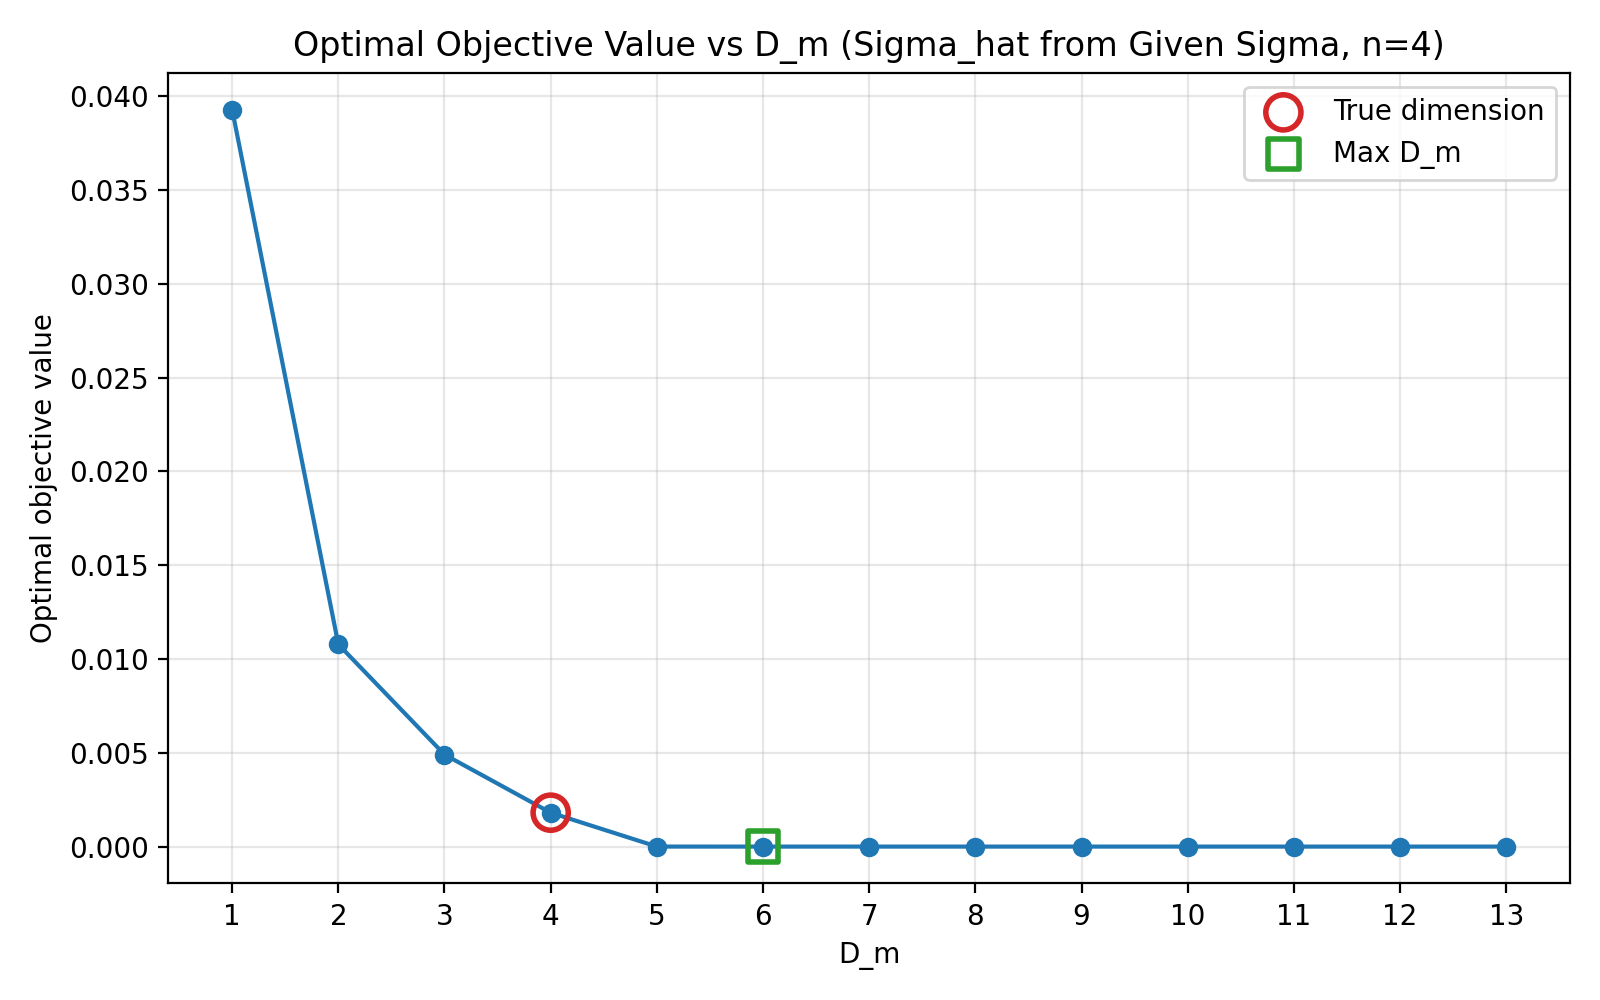
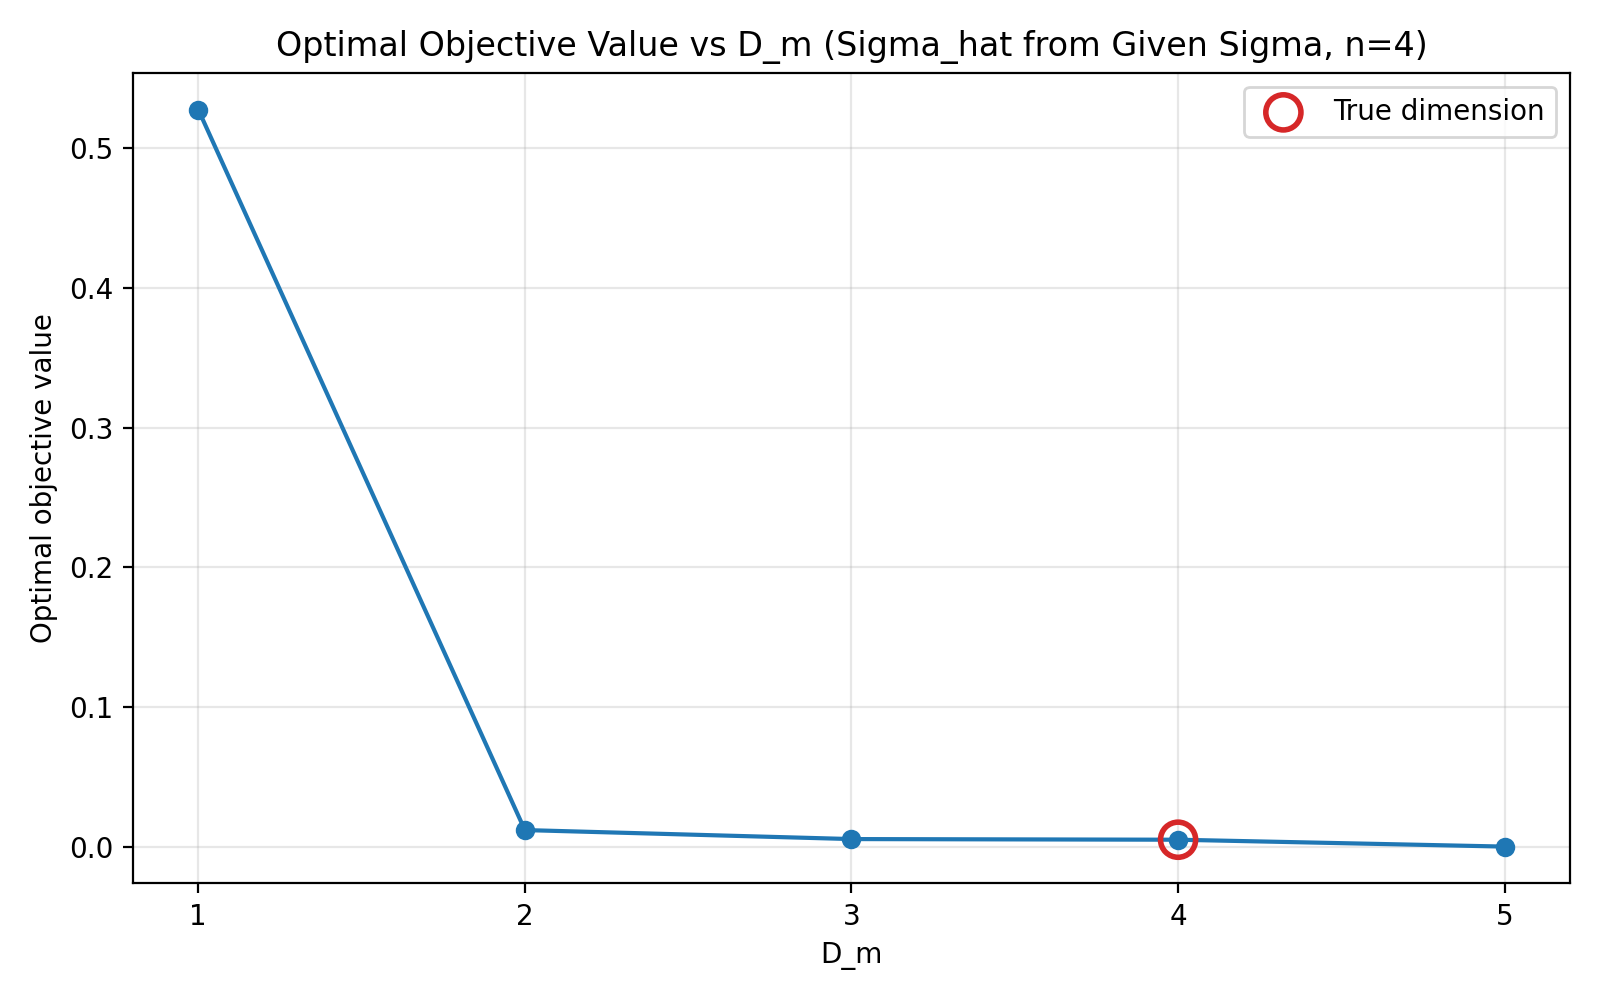
Checkpoint added

diff --git a/experiments/compute_objective_curve.py b/experiments/compute_objective_curve.py
@@ -1,6 +1,7 @@
 """Compute and save objective curves showing how the optimum changes with D_m."""
 
 import argparse
+import tempfile
 from pathlib import Path
 import sys
 
@@ -88,16 +89,36 @@ def compute_objective_curve(
     n_jobs=1,
     init_strategy="halton",
     refine_after_fixed_omega=False,
+    initial_curve_result=None,
+    save_callback=None,
 ):
     n = Sigma.shape[0]
     max_dm = n * (n - 1) + 1
 
-    exact_d_m_values = []
-    exact_objective_values = []
-    fallback_d_m_values = []
-    fallback_objective_values = []
+    if initial_curve_result is None:
+        exact_d_m_values = []
+        exact_objective_values = []
+        fallback_d_m_values = []
+        fallback_objective_values = []
+    else:
+        (
+            initial_d_m_values,
+            initial_objective_values,
+            initial_fallback_d_m_values,
+            initial_fallback_objective_values,
+        ) = initial_curve_result
+        exact_d_m_values = list(initial_d_m_values)
+        exact_objective_values = list(initial_objective_values)
+        fallback_d_m_values = list(initial_fallback_d_m_values)
+        fallback_objective_values = list(initial_fallback_objective_values)
+
+    completed_d_m_values = set(int(d_m) for d_m in exact_d_m_values)
 
     for d_m in range(1, max_dm + 1):
+        if d_m in completed_d_m_values:
+            print(f"Skipping D_m = {d_m}; already present in output file.")
+            continue
+
         print(f"Solving for D_m = {d_m}...")
         np.random.seed(random_seed)
         Lambda, omega, obj = optimize_lambda(
@@ -130,11 +151,31 @@ def compute_objective_curve(
             )
             exact_d_m_values.append(d_m)
             exact_objective_values.append(np.inf)
+            completed_d_m_values.add(d_m)
+            if save_callback is not None:
+                save_callback(
+                    (
+                        np.array(exact_d_m_values),
+                        np.array(exact_objective_values),
+                        np.array(fallback_d_m_values),
+                        np.array(fallback_objective_values),
+                    )
+                )
             continue
 
         print(f"  Objective = {obj:.6f}")
         exact_d_m_values.append(d_m)
         exact_objective_values.append(obj)
+        completed_d_m_values.add(d_m)
+        if save_callback is not None:
+            save_callback(
+                (
+                    np.array(exact_d_m_values),
+                    np.array(exact_objective_values),
+                    np.array(fallback_d_m_values),
+                    np.array(fallback_objective_values),
+                )
+            )
 
     d_m_values = np.array(exact_d_m_values)
     objective_values = np.array(exact_objective_values)
@@ -170,6 +211,26 @@ def output_path_for_dimension(output_path, n, add_suffix):
     return f"{stem}_n{n}.{extension}"
 
 
+def atomic_savez_compressed(output_path, **arrays):
+    output_path = Path(output_path)
+    output_path.parent.mkdir(parents=True, exist_ok=True)
+
+    temp_path = None
+    try:
+        with tempfile.NamedTemporaryFile(
+            dir=output_path.parent,
+            prefix=f".{output_path.name}.",
+            suffix=".tmp",
+            delete=False,
+        ) as temp_file:
+            temp_path = Path(temp_file.name)
+            np.savez_compressed(temp_file, **arrays)
+        temp_path.replace(output_path)
+    finally:
+        if temp_path is not None and temp_path.exists():
+            temp_path.unlink()
+
+
 def save_curve_result(
     output_path,
     curve_type,
@@ -192,7 +253,7 @@ def save_curve_result(
         fallback_objective_values,
     ) = curve_result
 
-    np.savez_compressed(
+    atomic_savez_compressed(
         output_path,
         curve_type=curve_type,
         n=n,
@@ -210,6 +271,51 @@ def save_curve_result(
         fallback_d_m_values=fallback_d_m_values,
         fallback_objective_values=fallback_objective_values,
     )
+
+
+def load_existing_curve_result(
+    output_path,
+    expected_curve_type,
+    expected_n,
+    expected_metadata=None,
+):
+    output_path = Path(output_path)
+    if not output_path.exists():
+        return None
+
+    with np.load(output_path, allow_pickle=True) as data:
+        curve_type = data["curve_type"].item()
+        n = int(data["n"])
+        if curve_type != expected_curve_type or n != expected_n:
+            raise ValueError(
+                f"Refusing to resume from {output_path}: expected "
+                f"curve_type={expected_curve_type!r}, n={expected_n}, but found "
+                f"curve_type={curve_type!r}, n={n}."
+            )
+
+        if expected_metadata is not None:
+            for key, expected_value in expected_metadata.items():
+                actual_value = data[key].item()
+                if actual_value != expected_value:
+                    raise ValueError(
+                        f"Refusing to resume from {output_path}: expected "
+                        f"{key}={expected_value!r}, but found {actual_value!r}."
+                    )
+
+        d_m_values = data["d_m_values"]
+        objective_values = data["objective_values"]
+        if len(d_m_values) != len(objective_values):
+            raise ValueError(
+                f"Refusing to resume from {output_path}: d_m_values and "
+                "objective_values have different lengths."
+            )
+
+        return (
+            d_m_values.copy(),
+            objective_values.copy(),
+            data["fallback_d_m_values"].copy(),
+            data["fallback_objective_values"].copy(),
+        )
 
 
 def parse_args():
@@ -342,6 +448,39 @@ def run_experiment(args, n, add_output_suffix):
 
     print("Given Sigma:")
     print(Sigma_given)
+    given_existing_curve = load_existing_curve_result(
+        given_output,
+        "given_sigma",
+        n,
+        expected_metadata={
+            "omega_ref": omega_ref,
+            "random_seed": args.random_seed,
+            "solve_seed": given_solve_seed,
+            "fallback_seed": given_fallback_seed,
+            "num_samples": -1,
+            "stop_obj_threshold": args.stop_obj_threshold,
+        },
+    )
+    if given_existing_curve is not None:
+        print(f"Resuming given-Sigma curve data from {given_output}")
+
+    def save_given_curve(curve_result):
+        save_curve_result(
+            given_output,
+            "given_sigma",
+            n,
+            Lambda_star,
+            Sigma_given,
+            omega_star,
+            omega_ref,
+            args.random_seed,
+            given_solve_seed,
+            given_fallback_seed,
+            -1,
+            args.stop_obj_threshold,
+            curve_result,
+        )
+
     given_curve = compute_objective_curve(
         Sigma_given,
         max_iter=800,
@@ -355,22 +494,10 @@ def run_experiment(args, n, add_output_suffix):
         n_jobs=args.n_jobs,
         init_strategy=args.init_strategy,
         refine_after_fixed_omega=args.refine_after_fixed_omega,
+        initial_curve_result=given_existing_curve,
+        save_callback=save_given_curve,
     )
-    save_curve_result(
-        given_output,
-        "given_sigma",
-        n,
-        Lambda_star,
-        Sigma_given,
-        omega_star,
-        omega_ref,
-        args.random_seed,
-        given_solve_seed,
-        given_fallback_seed,
-        -1,
-        args.stop_obj_threshold,
-        given_curve,
-    )
+    save_given_curve(given_curve)
     print(f"Saved given-Sigma curve data to {given_output}")
 
     Sigma_hat_given = sample_empirical_covariance(
@@ -381,6 +508,39 @@ def run_experiment(args, n, add_output_suffix):
 
     print("\nEmpirical covariance Sigma_hat from given Sigma:")
     print(Sigma_hat_given)
+    sigma_hat_existing_curve = load_existing_curve_result(
+        sigma_hat_output,
+        "sigma_hat_from_given_sigma",
+        n,
+        expected_metadata={
+            "omega_ref": omega_ref,
+            "random_seed": args.random_seed,
+            "solve_seed": sigma_hat_solve_seed,
+            "fallback_seed": sigma_hat_fallback_seed,
+            "num_samples": args.num_samples,
+            "stop_obj_threshold": args.stop_obj_threshold,
+        },
+    )
+    if sigma_hat_existing_curve is not None:
+        print(f"Resuming Sigma_hat curve data from {sigma_hat_output}")
+
+    def save_sigma_hat_curve(curve_result):
+        save_curve_result(
+            sigma_hat_output,
+            "sigma_hat_from_given_sigma",
+            n,
+            Lambda_star,
+            Sigma_hat_given,
+            omega_star,
+            omega_ref,
+            args.random_seed,
+            sigma_hat_solve_seed,
+            sigma_hat_fallback_seed,
+            args.num_samples,
+            args.stop_obj_threshold,
+            curve_result,
+        )
+
     sigma_hat_curve = compute_objective_curve(
         Sigma_hat_given,
         max_iter=800,
@@ -394,22 +554,10 @@ def run_experiment(args, n, add_output_suffix):
         n_jobs=args.n_jobs,
         init_strategy=args.init_strategy,
         refine_after_fixed_omega=args.refine_after_fixed_omega,
+        initial_curve_result=sigma_hat_existing_curve,
+        save_callback=save_sigma_hat_curve,
     )
-    save_curve_result(
-        sigma_hat_output,
-        "sigma_hat_from_given_sigma",
-        n,
-        Lambda_star,
-        Sigma_hat_given,
-        omega_star,
-        omega_ref,
-        args.random_seed,
-        sigma_hat_solve_seed,
-        sigma_hat_fallback_seed,
-        args.num_samples,
-        args.stop_obj_threshold,
-        sigma_hat_curve,
-    )
+    save_sigma_hat_curve(sigma_hat_curve)
     print(f"Saved Sigma_hat curve data to {sigma_hat_output}")
 
 

diff --git a/experiments/run_synthetic.py b/experiments/run_synthetic.py
@@ -51,9 +51,29 @@ def sample_empirical_covariance(Sigma, num_samples, seed=None):
     return empirical_covariance_from_samples(X)
 
 
+def lambda_star_for_dimension(n):
+    if n < 2:
+        raise ValueError("n must be at least 2.")
+
+    Lambda_star = np.zeros((n, n))
+    diag_values = np.linspace(0.10, 0.55, n)
+    last_col_values = np.linspace(0.60, -0.45, n - 1)
+
+    np.fill_diagonal(Lambda_star, diag_values)
+    Lambda_star[:n - 1, n - 1] = last_col_values
+    return Lambda_star
+
+
 def parse_args():
     parser = argparse.ArgumentParser(
         description="Run the active Lambda optimization experiment."
+    )
+    parser.add_argument(
+        "--lambda-star-dims",
+        type=int,
+        nargs="+",
+        default=[4],
+        help="Dimensions of Lambda_star. This single-run script uses the first value.",
     )
     parser.add_argument(
         "--n-jobs",
@@ -103,13 +123,9 @@ def parse_args():
 def main():
     args = parse_args()
 
-    D_m = 4
-    Lambda_star = np.array([
-        [0.15, 0.0, 0.0, 0.6],
-        [0.0, -0.20, 0.0, -0.45],
-        [0.0, 0.0, 0.10, 0.50],
-        [0.0, 0.0, 0.0, 0.55],
-    ])
+    n = args.lambda_star_dims[0]
+    D_m = n
+    Lambda_star = lambda_star_for_dimension(n)
     omega_star = 1.0
     omega_ref = args.omega_ref
     if omega_ref is None and args.refine_after_fixed_omega: